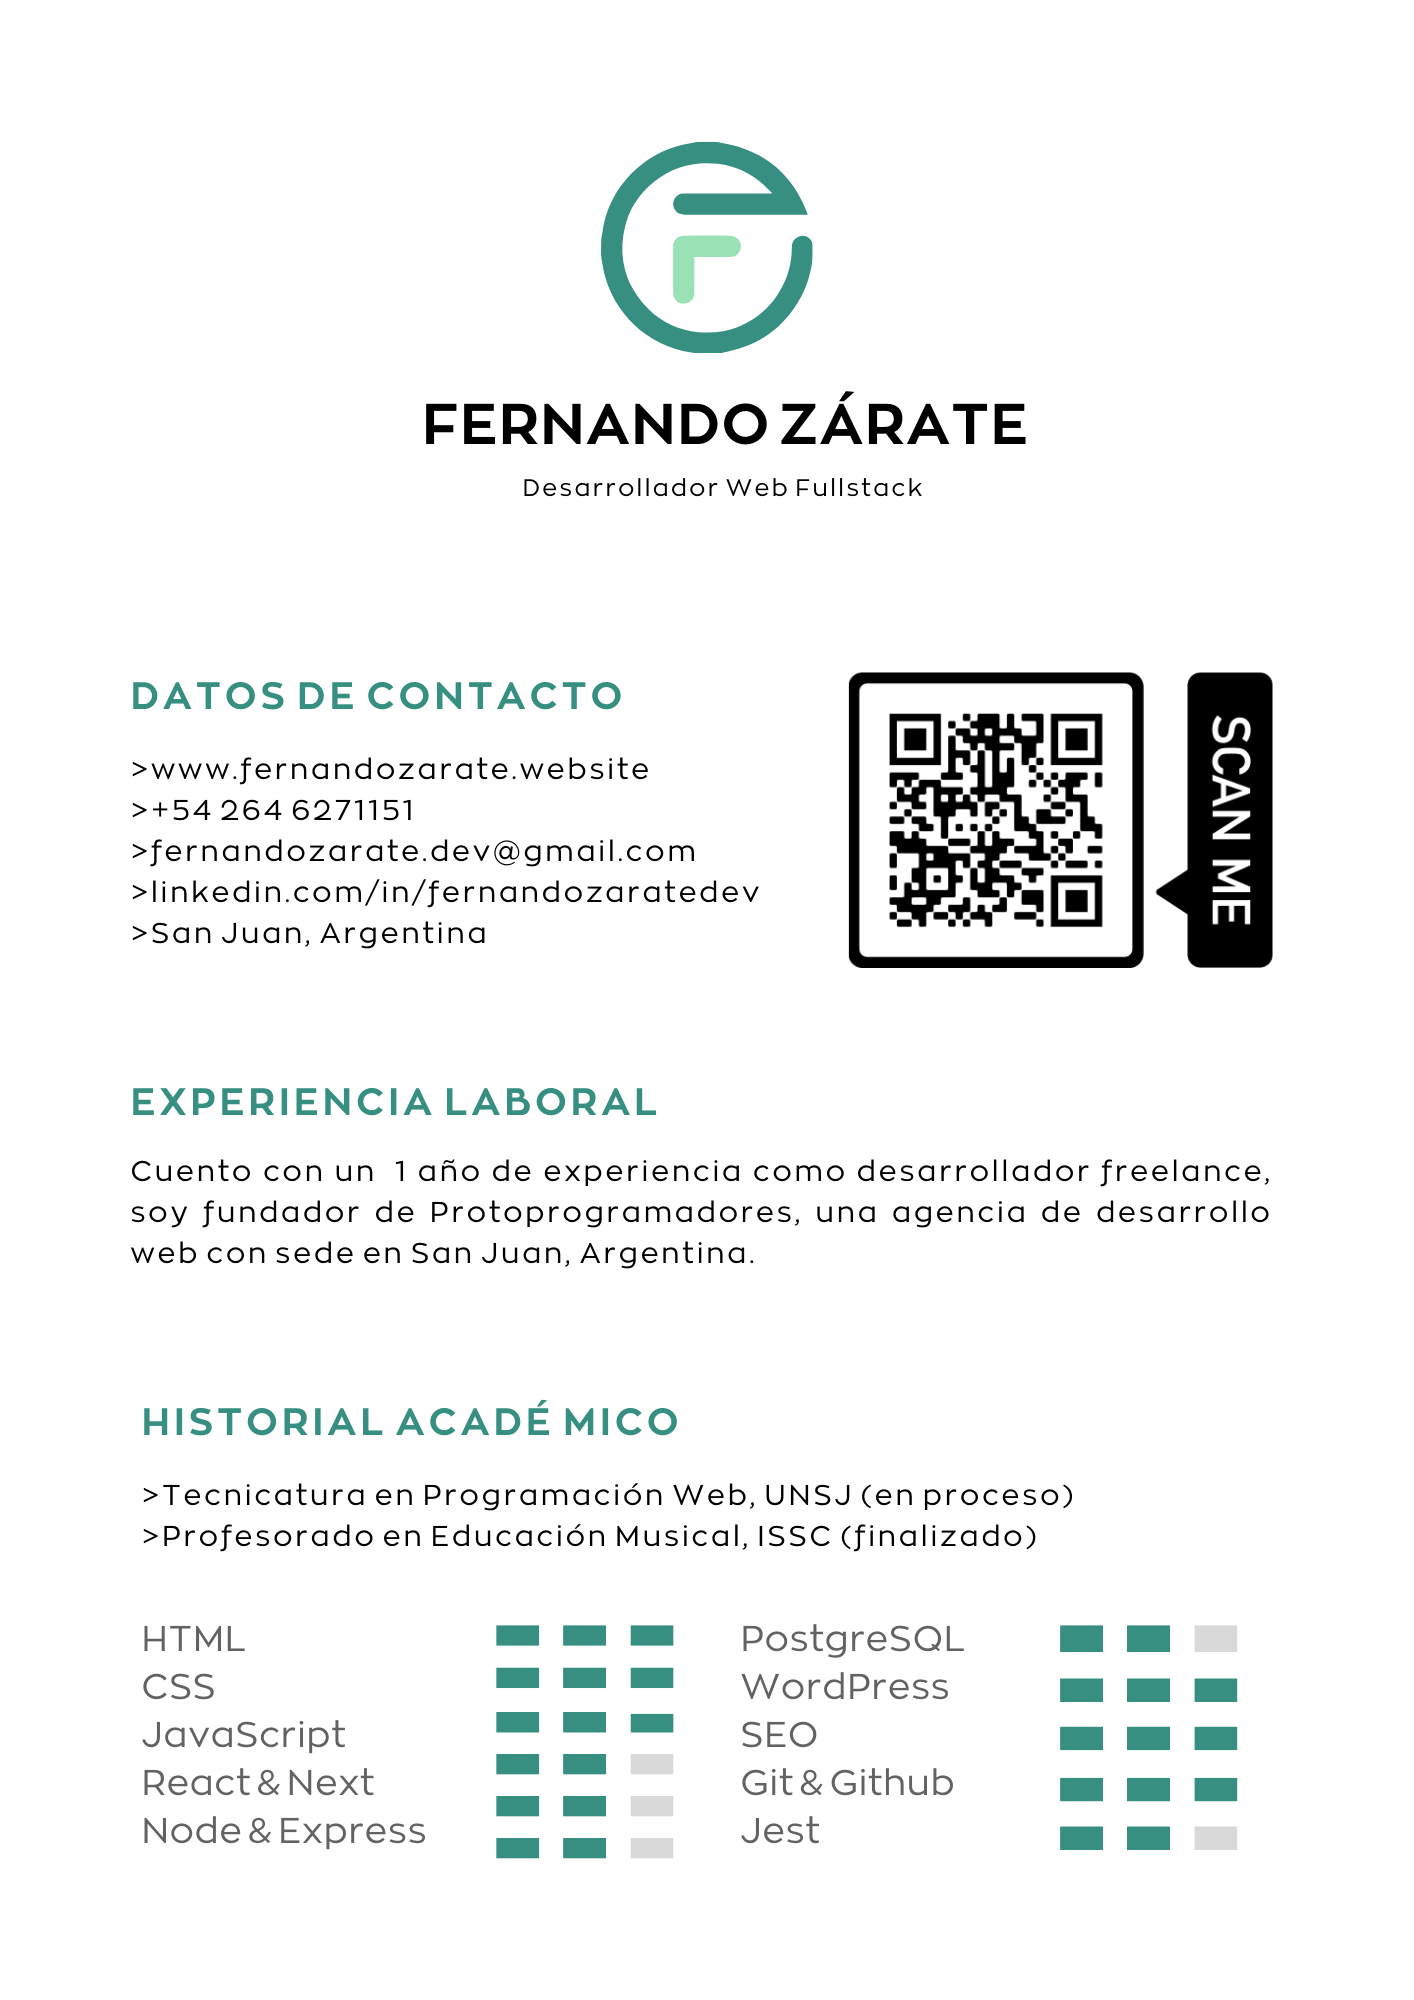
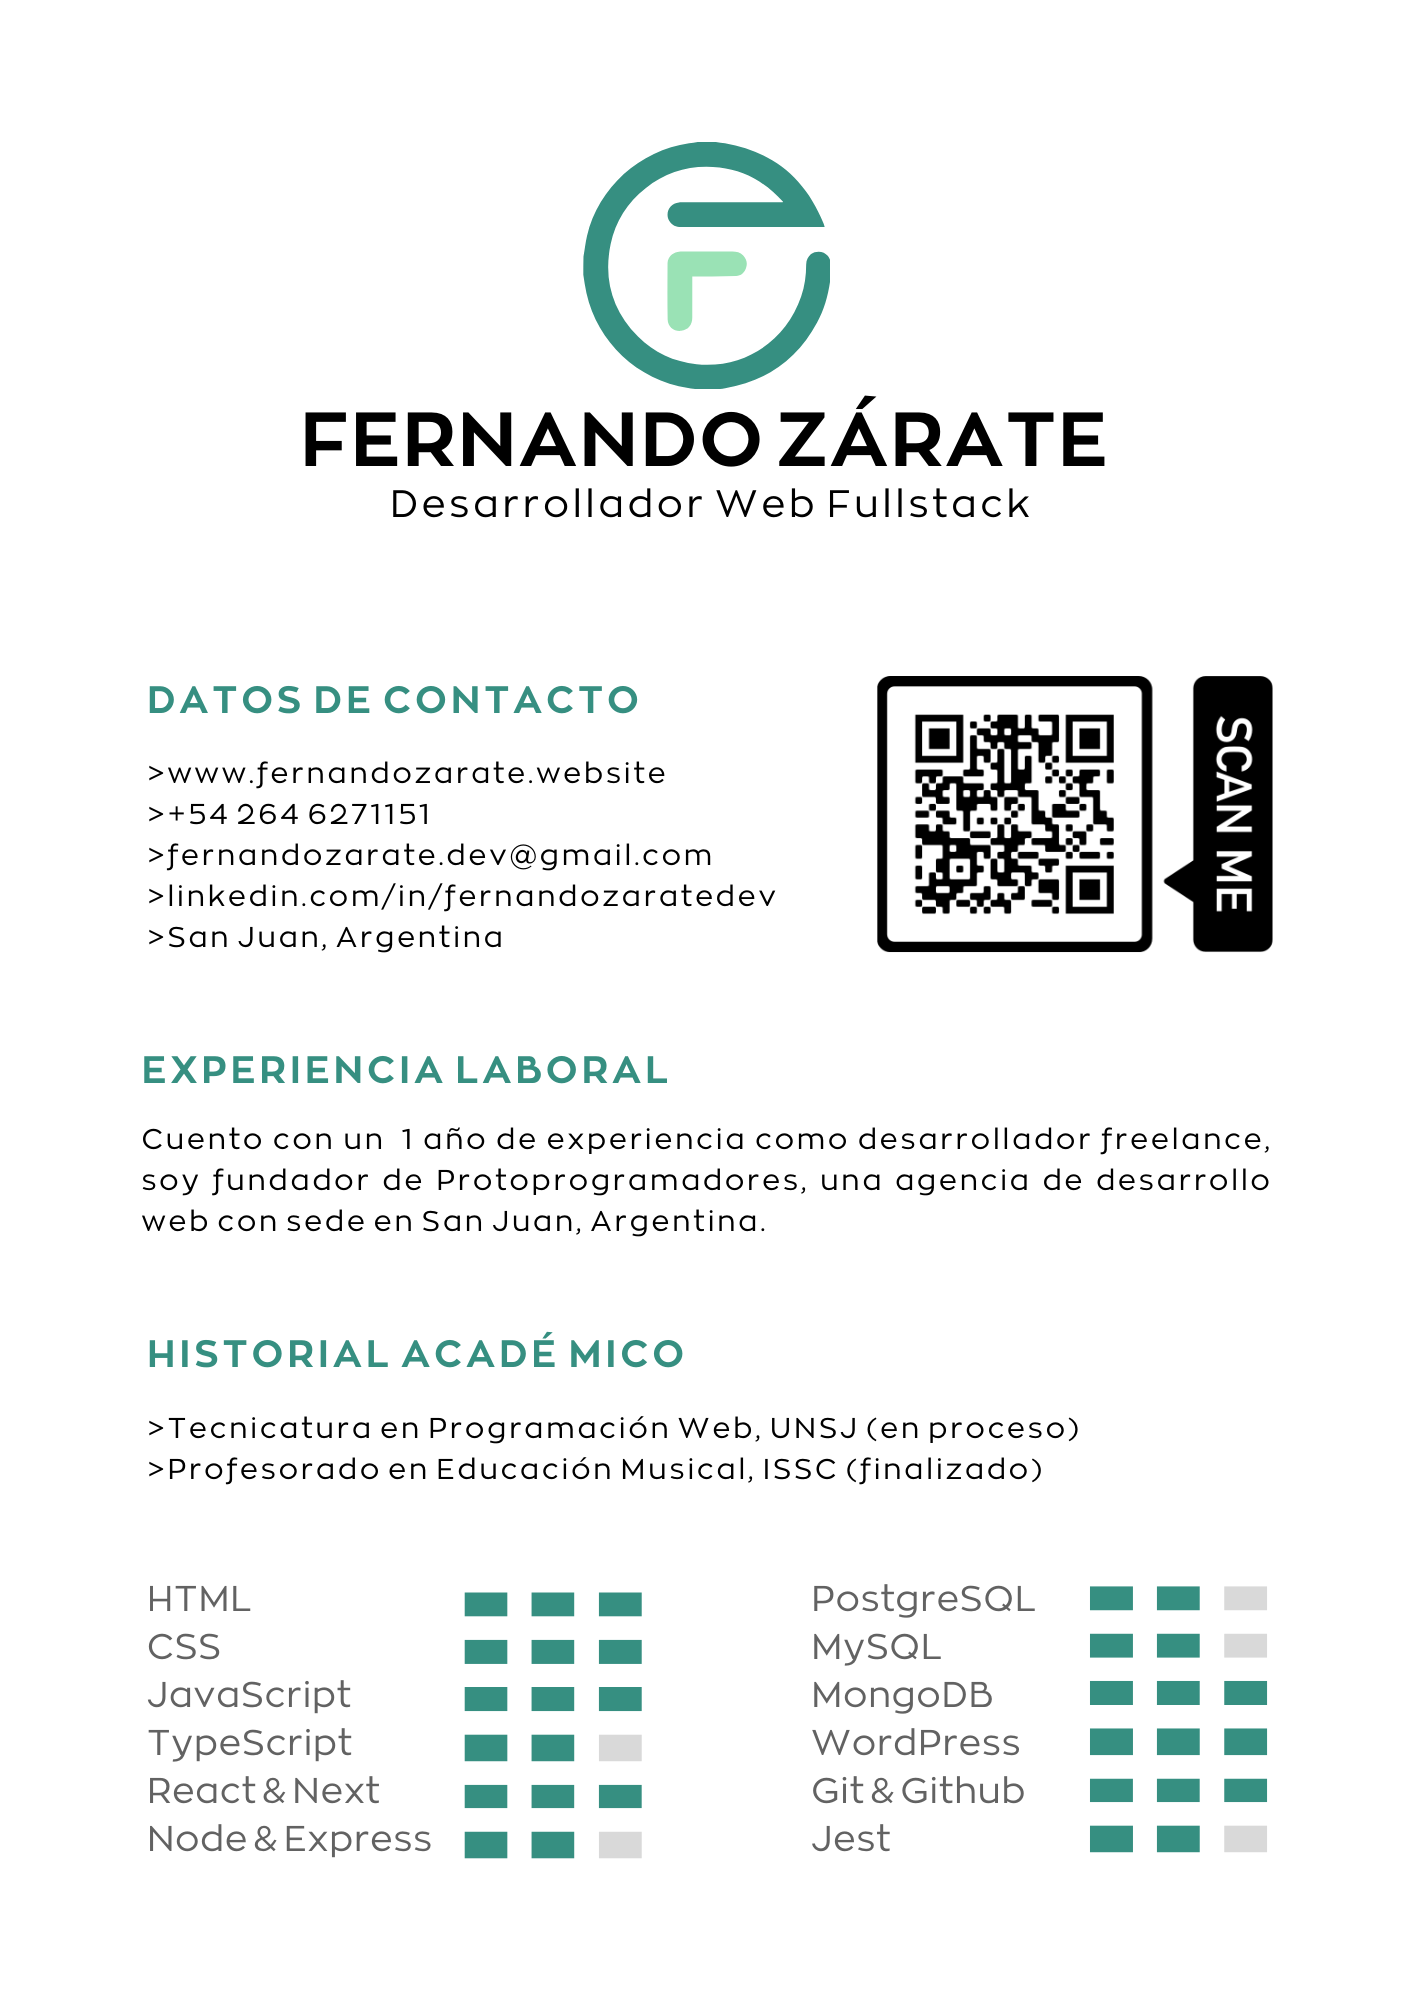
Change resume.pdf and resume.png in AboutmeSection.jsx

diff --git a/src/modules/Sections/Aboutme/AboutmeSection.jsx b/src/modules/Sections/Aboutme/AboutmeSection.jsx
@@ -24,8 +24,8 @@ const AboutmeSection = () => {
           </span>
           <span>
             <i className="fa-solid fa-check"></i>
-            Manejo un stack basado en tecnologías modernas como JavaScript, React, Next.js, Node.js, Express y
-            PostgreSQL.
+            Manejo un stack basado en tecnologías modernas como HTML, CSS, Bootstrap, JavaScript, TypeScript, React,
+            Next.js, Node.js, Express, MySQL, PostgreSQL y MongoDB.
           </span>
           <span>
             <i className="fa-solid fa-check"></i>
